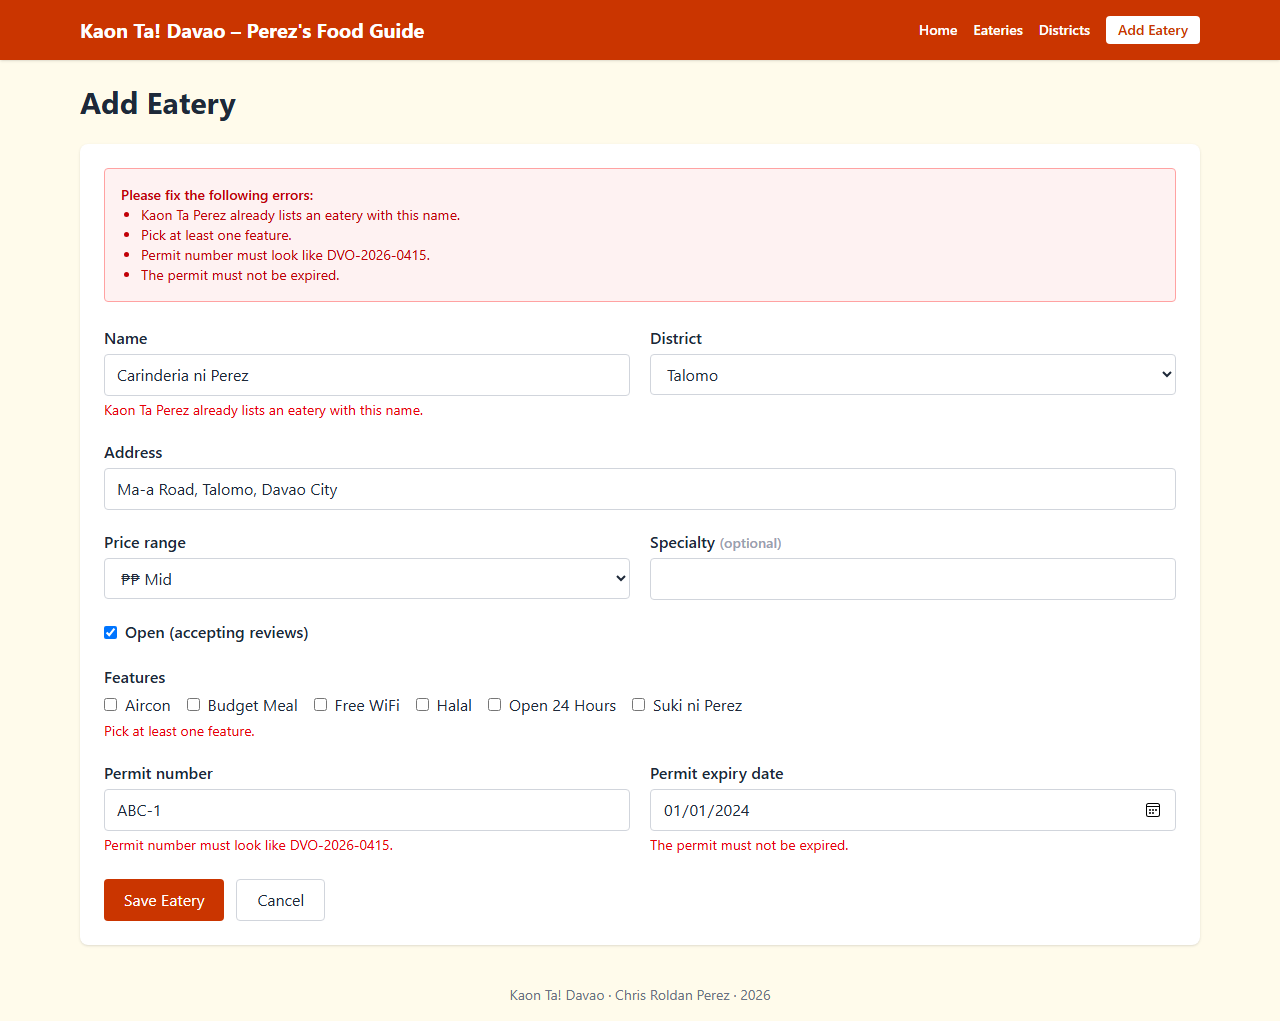
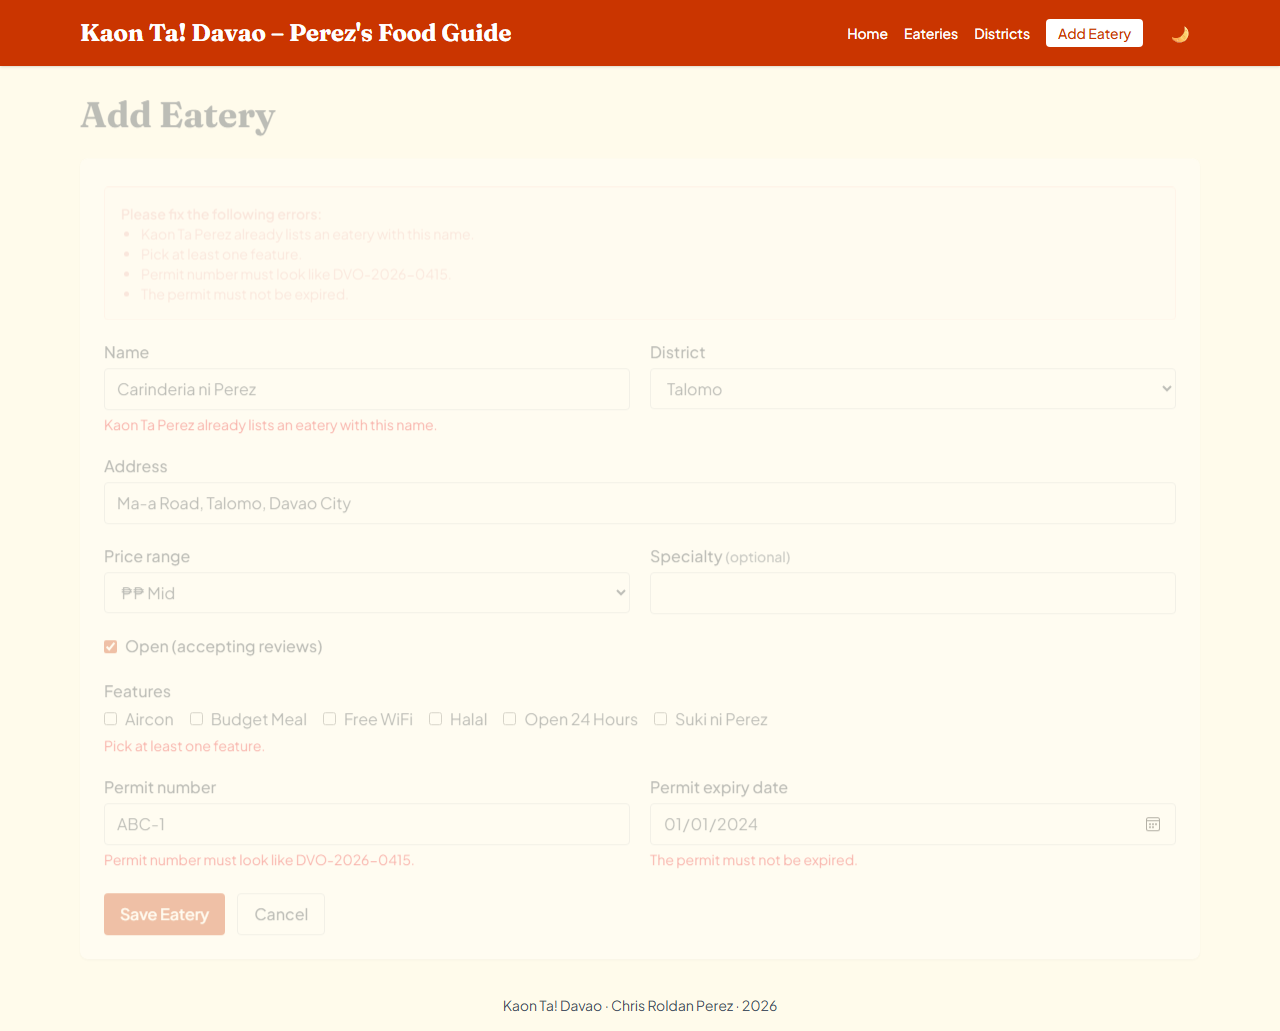
Update README with extras and new screenshots

diff --git a/README.md b/README.md
@@ -7,6 +7,11 @@ CS Elective 2 Full-Stack Development (Laravel) · Ateneo de Davao University
 
 A Laravel 12 + SQLite app where the City Tourism Office can list carinderias and eateries by district, show each eatery's business permit, dishes and features, and collect reviews from residents. There is no login. Every page is public, and the review form has a Reviewer select instead.
 
+Extras:
+- A **dark/light mode** toggle in the header (the 🌙 / ☀ button). The choice is saved in the browser's localStorage.
+- **Google Fonts**: Fraunces for headings and Plus Jakarta Sans for body text.
+- Small **hover effects and fade-in animations**, written as Tailwind classes. They turn off automatically if the computer is set to reduce motion.
+
 ## Setup
 
 ```bash
